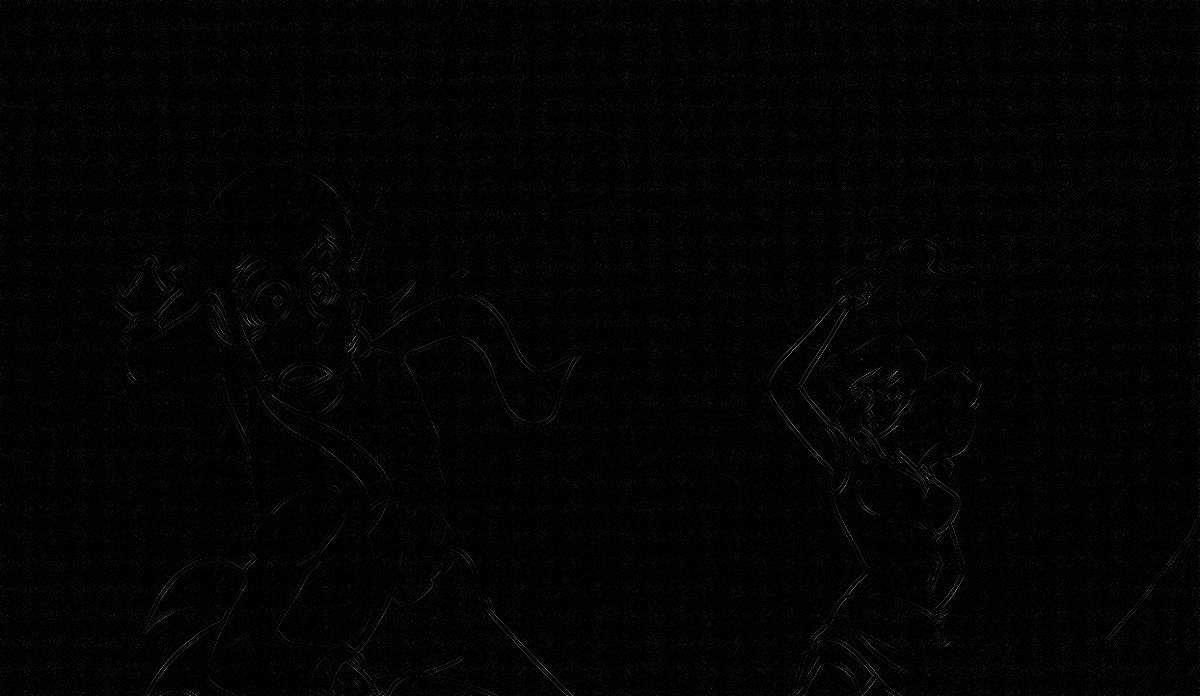
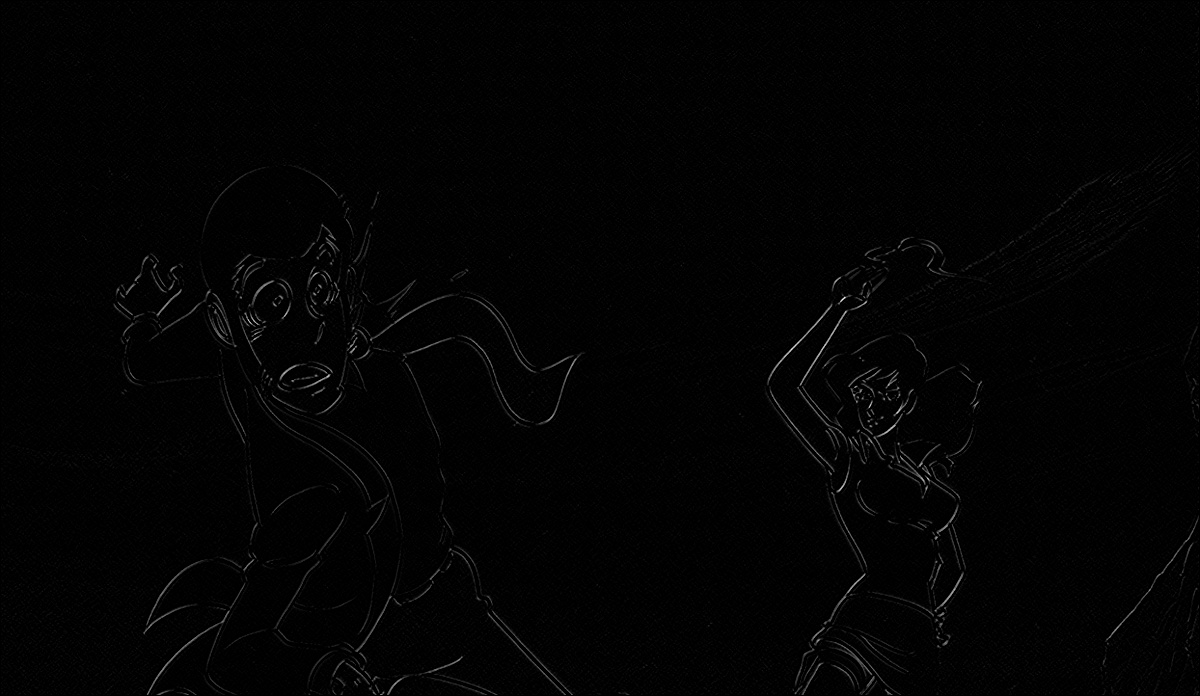
tanaka

diff --git a/src/main/kotlin/tanaka79/Sobel.kt b/src/main/kotlin/tanaka79/Sobel.kt
@@ -8,6 +8,6 @@ import origami.Origami
 fun main(args: Array<String>) {
     Origami.init()
     val gray = imread("data/lupin3.jpeg", 0)
-    Sobel(gray, gray, gray.depth(), 2, 2)
+    Sobel(gray, gray, gray.depth(), 1, 1)
     imwrite("out/tanaka_sobel.jpg", gray)
 }
